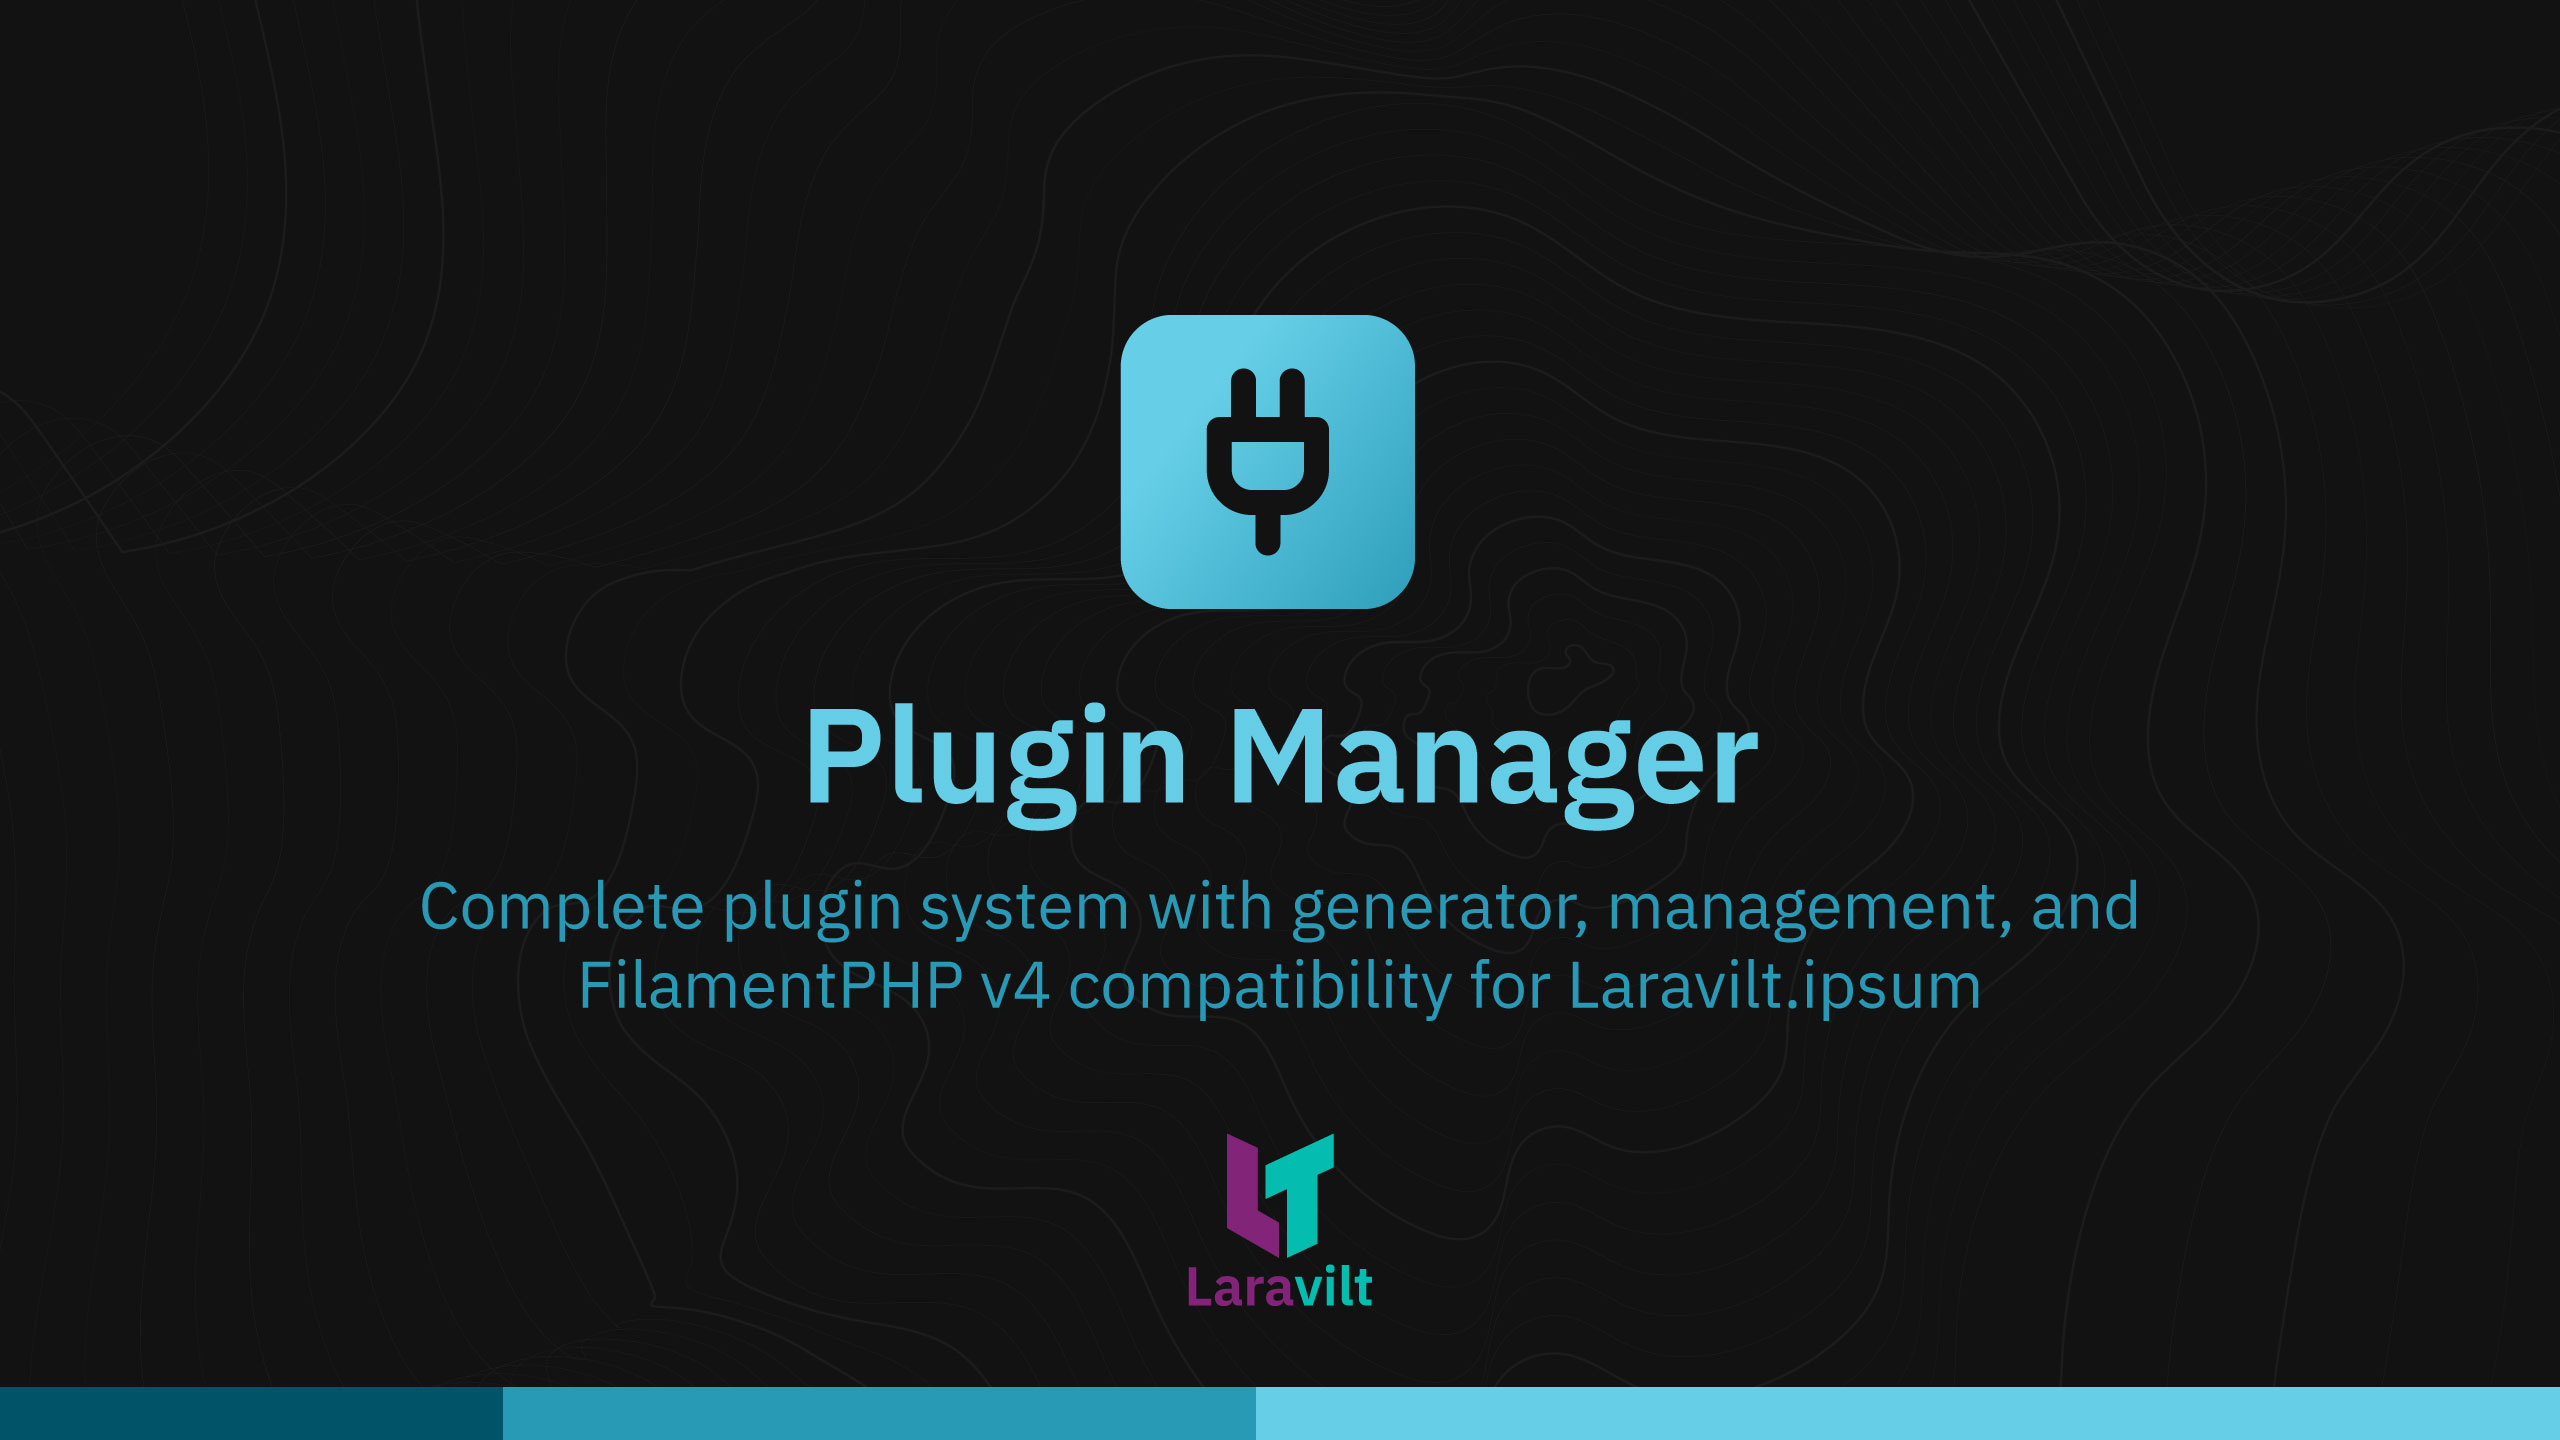
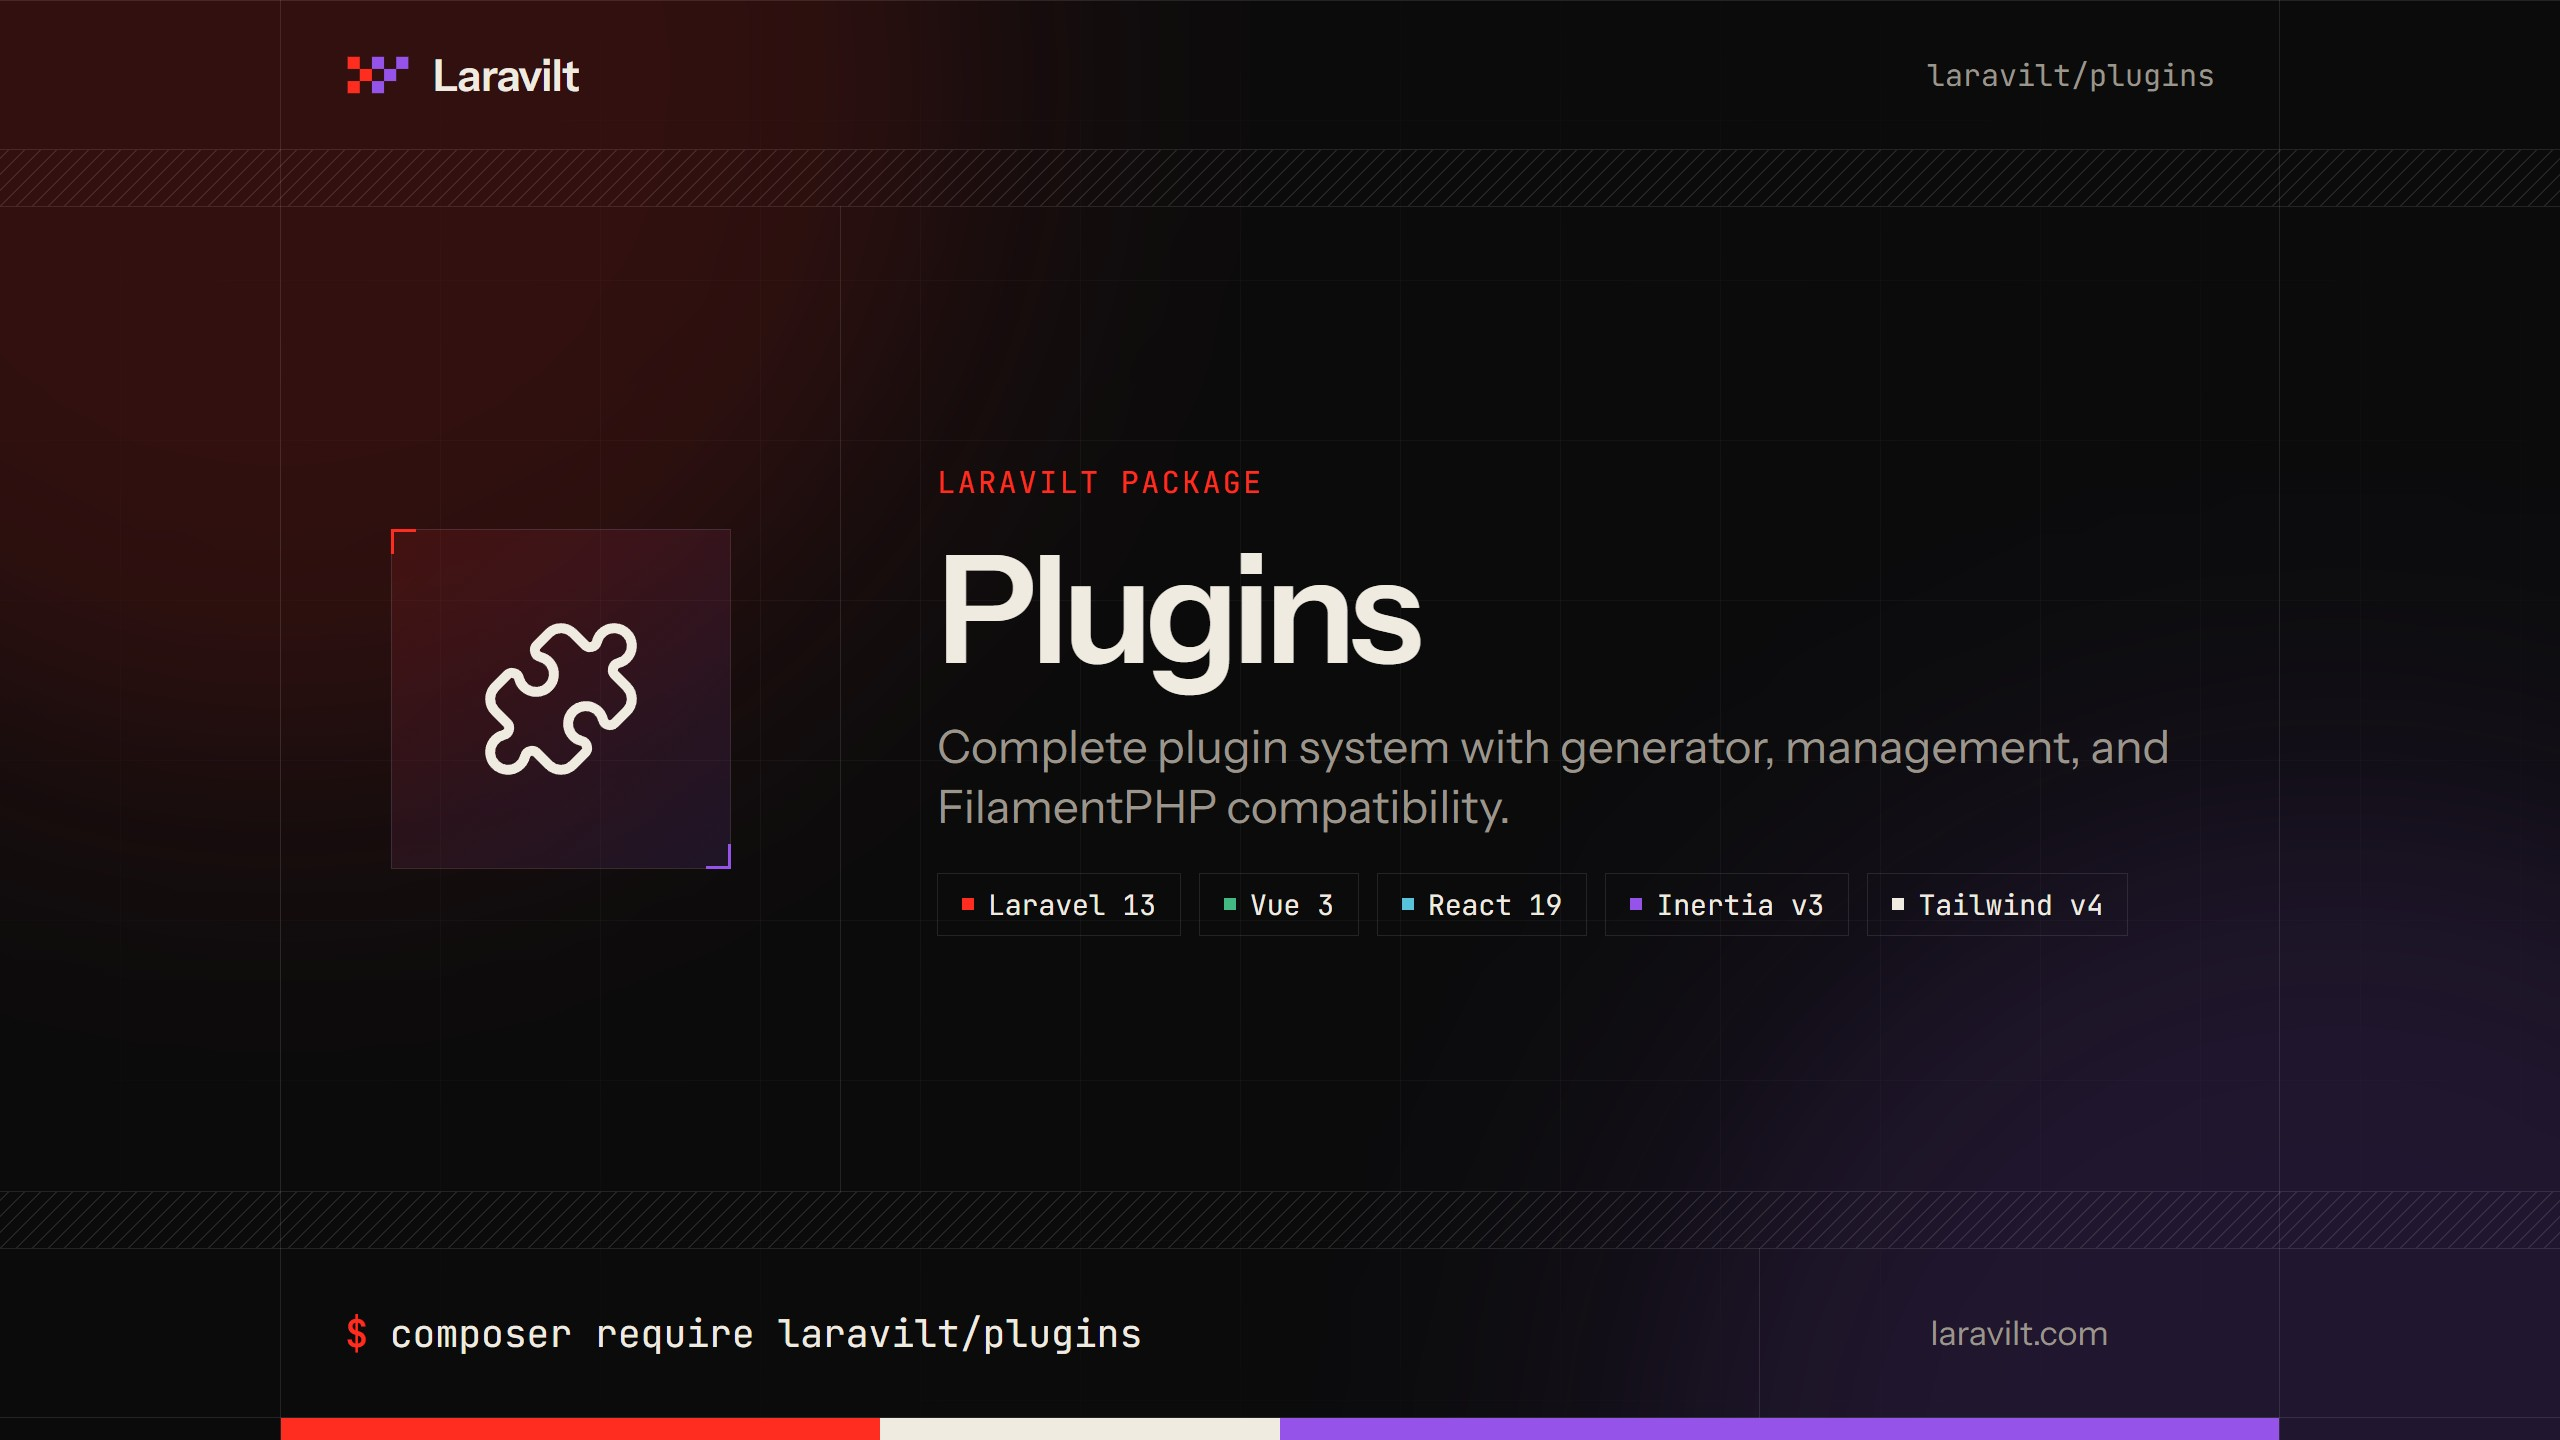
Add React support and Laravel 13 compatibility
- Plugin scaffolding follows the app's stack (React package.json, vite plugin and entry stubs).
- Removed the unusable BasePlugin; MCP tools use the JsonSchema contract.

Shared changes:
- Laravel 13 / Inertia v3 / testbench 11 / Pest 4-5 compatible constraints, PHPStan 2 config and an empty PHPStan baseline.
- New Laravilt cover in the new brand.
- Pint formatting.

diff --git a/src/Features/JsFeature.php b/src/Features/JsFeature.php
@@ -2,6 +2,8 @@
 
 namespace Laravilt\Plugins\Features;
 
+use Laravilt\Support\Frontend;
+
 /**
  * Generates JavaScript assets for the plugin.
  *
@@ -27,7 +29,7 @@ class JsFeature extends AbstractFeature
     public function getDirectories(array $config): array
     {
         return $this->shouldGenerate($config)
-            ? ['resources/js', 'dist']
+            ? [$this->usesReact($config) ? 'resources/react' : 'resources/js', 'dist']
             : [];
     }
 
@@ -39,15 +41,27 @@ class JsFeature extends AbstractFeature
         // Generate Vite plugin configuration
         $this->generateViteConfig($config);
 
-        // Generate JS file as Vue.js plugin
+        // Generate the plugin entry (Vue.js plugin or React registration module)
         $this->generateJsFile($config);
+    }
+
+    /**
+     * Whether the plugin targets React (the `frontend` option, else the application's stack).
+     */
+    protected function usesReact(array $config): bool
+    {
+        $stack = $config['frontend'] ?? (class_exists(Frontend::class)
+            ? Frontend::stack()
+            : 'vue');
+
+        return $stack === 'react';
     }
 
     protected function generatePackageJson(array $config): void
     {
         $this->processor->generateFile(
             $config['base_path'].'/package.json',
-            'package.json',
+            $this->usesReact($config) ? 'package.react.json' : 'package.json',
             [
                 'package_name' => $config['kebab_name'],
                 'description' => $config['plugin_description'] ?? "{$config['studly_name']} plugin for Laravilt",
@@ -59,7 +73,7 @@ class JsFeature extends AbstractFeature
     {
         $this->processor->generateFile(
             $config['base_path'].'/vite.plugin.js',
-            'vite.plugin',
+            $this->usesReact($config) ? 'vite.plugin.react' : 'vite.plugin',
             [
                 'plugin_name' => $config['studly_name'],
                 'kebab_name' => $config['kebab_name'],
@@ -69,9 +83,11 @@ class JsFeature extends AbstractFeature
 
     protected function generateJsFile(array $config): void
     {
+        $react = $this->usesReact($config);
+
         $this->processor->generateFile(
-            $config['base_path'].'/resources/js/app.js',
-            'js/app',
+            $config['base_path'].($react ? '/resources/react/app.ts' : '/resources/js/app.js'),
+            $react ? 'js/app.react' : 'js/app',
             [
                 'plugin_name' => $config['studly_name'],
                 'kebab_name' => $config['kebab_name'],
